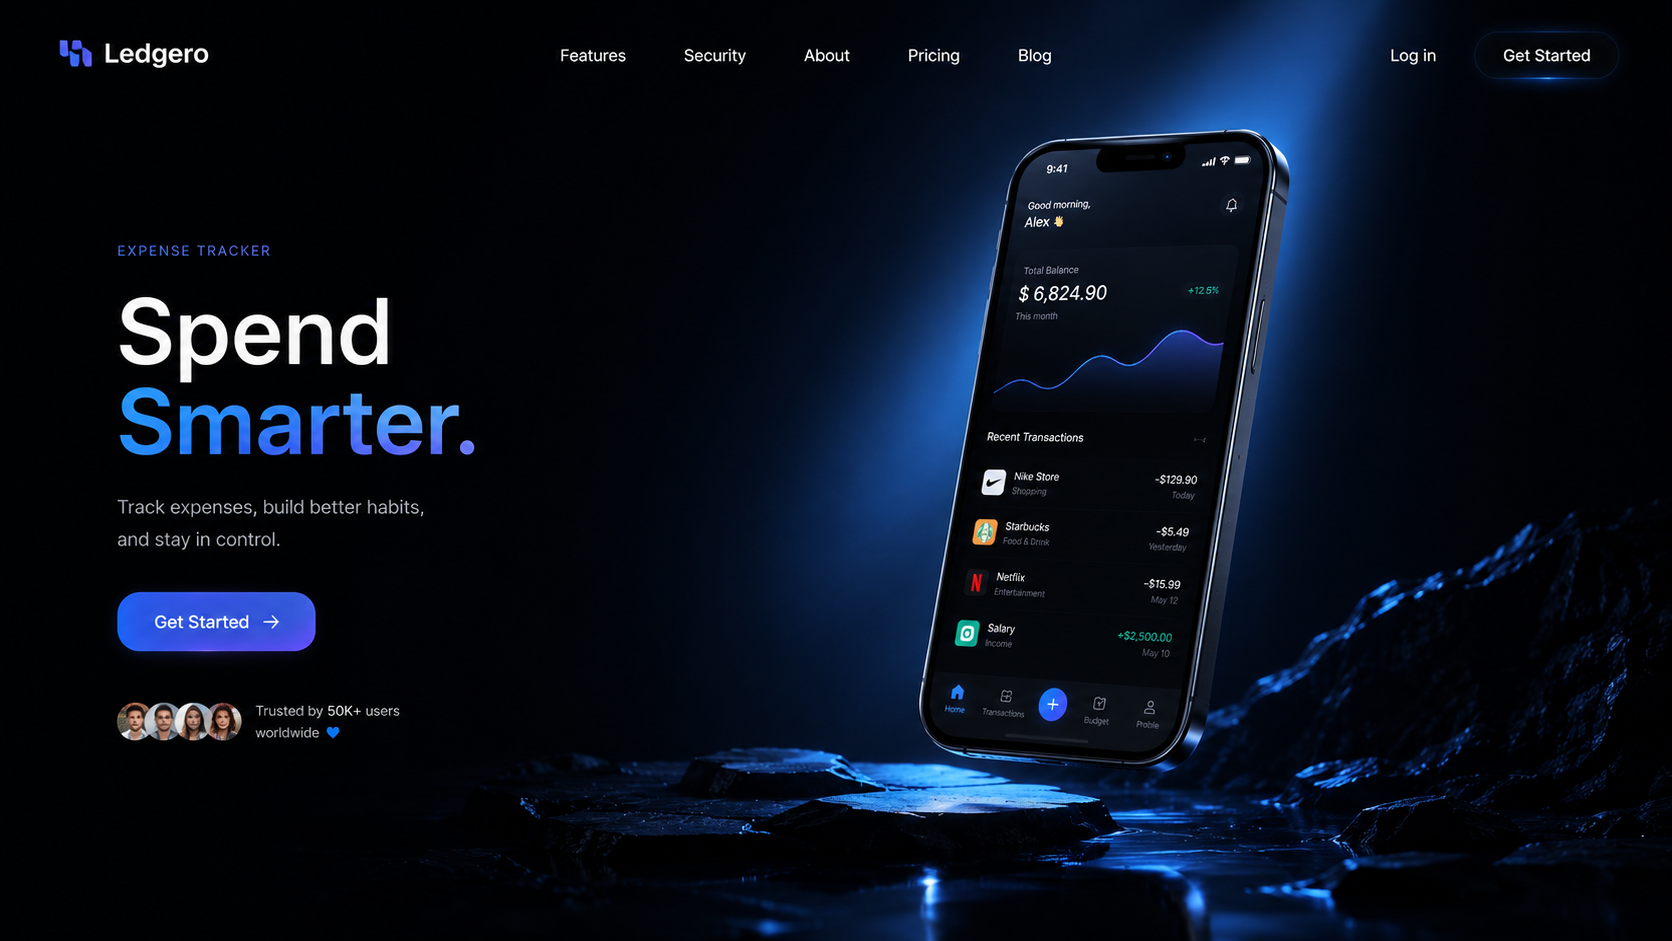
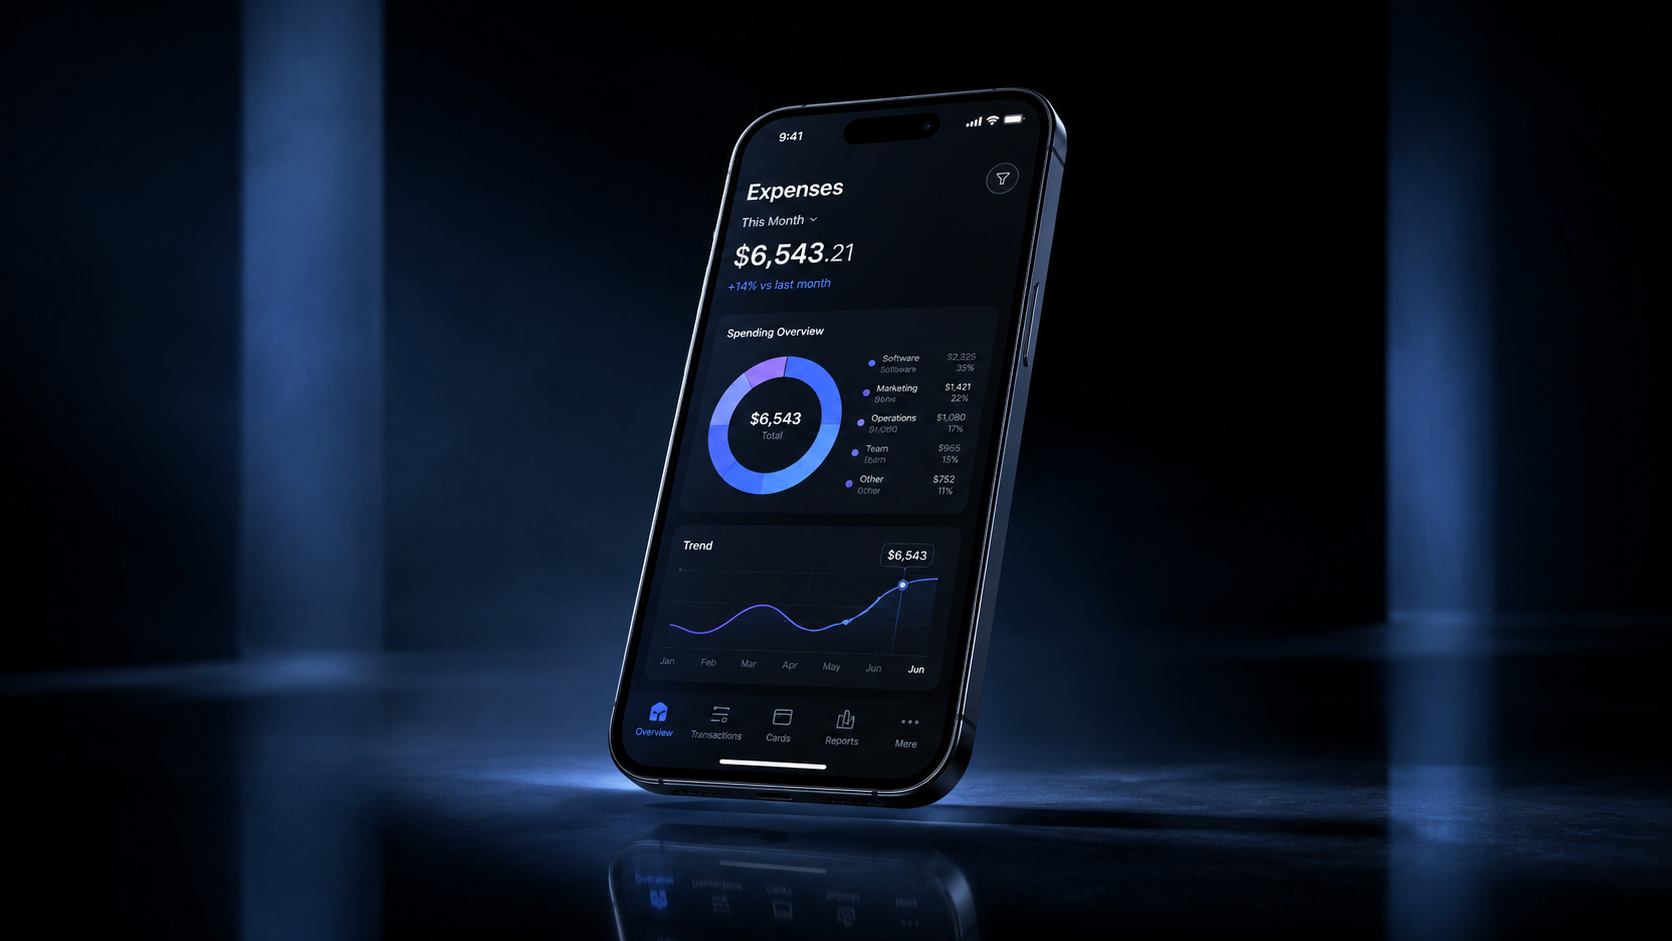
Updated portfolio content

diff --git a/src/components/About.tsx b/src/components/About.tsx
@@ -25,34 +25,35 @@ export default function About() {
               About Me
             </span>
             <h2 className="text-5xl md:text-7xl font-bold text-white mb-8 tracking-tight leading-tight">
-              Designing <br />
+              Building <br />
               <span className="text-transparent bg-clip-text bg-linear-to-r from-blue-400 to-purple-400">
-                Robust Backends
+                Scalable Backend Systems
               </span>
             </h2>
             <p className="text-gray-400 text-lg leading-relaxed mb-8">
-              A results-driven engineer specializing in building high-performance APIs, automated data pipelines, and clean, modular architectures that power seamless client experiences.
+              Building scalable APIs, automation systems, and backend architectures that power reliable digital experiences.
             </p>
             
             {/* Quick Metrics */}
             <div className="grid grid-cols-2 gap-6 border-t border-white/10 pt-8">
-              <div>
-                <span className="block text-4xl font-bold text-white font-mono mb-1">
-                  100%
-                </span>
-                <span className="text-xs text-gray-500 uppercase tracking-wider">
-                  Clean & OOP Code
-                </span>
-              </div>
-              <div>
-                <span className="block text-4xl font-bold text-white font-mono mb-1">
-                  40%
-                </span>
-                <span className="text-xs text-gray-500 uppercase tracking-wider">
-                  Security Optimized
-                </span>
-              </div>
-            </div>
+  <div>
+    <span className="block text-4xl font-bold text-white font-mono mb-1">
+      1+
+    </span>
+    <span className="text-xs text-gray-500 uppercase tracking-wider">
+      Years Experience
+    </span>
+  </div>
+
+  <div>
+    <span className="block text-4xl font-bold text-white font-mono mb-1">
+      Python
+    </span>
+    <span className="text-xs text-gray-500 uppercase tracking-wider">
+      Backend Engineer
+    </span>
+  </div>
+</div>
           </motion.div>
 
           {/* Profile Card / Description */}
@@ -67,20 +68,54 @@ export default function About() {
             <div className="absolute top-0 right-0 w-[300px] h-[300px] bg-blue-500/10 rounded-full blur-[80px] pointer-events-none group-hover:bg-blue-500/15 transition-all" />
 
             <div className="relative z-10">
-              <h3 className="text-2xl font-bold text-white mb-6">
-                Professional Profile
-              </h3>
-              <p className="text-gray-300 leading-relaxed mb-6 text-base md:text-lg">
-                I am a Python Software Engineer with professional experience developing web applications, automation solutions, and scalable backend systems using Python, FastAPI, JavaScript, and MySQL.
-              </p>
-              <p className="text-gray-300 leading-relaxed mb-6 text-base md:text-lg">
-                Skilled in designing REST APIs, implementing OOP-based architectures, optimizing application performance, and writing clean, maintainable code.
-              </p>
-              <p className="text-gray-300 leading-relaxed text-base md:text-lg">
-                I am highly experienced in debugging, API integration, Git-based workflows, and Agile development, with a proven ability to deliver reliable software solutions in collaborative environments.
-              </p>
-            </div>
-          </motion.div>
+  <h3 className="text-2xl font-bold text-white mb-6">
+    Professional Profile
+  </h3>
+
+  <p className="text-gray-300 leading-relaxed text-base md:text-lg">
+    Python Software Engineer with experience building scalable REST APIs, automation solutions, and backend systems. Skilled in FastAPI, PostgreSQL, Docker, and modern web technologies, with a focus on performance, maintainability, and clean architecture.
+  </p>
+
+  <div className="grid grid-cols-2 gap-6 mt-10 pt-8 border-t border-white/10">
+    <div>
+      <span className="block text-4xl font-bold text-white font-mono mb-1">
+        1+
+      </span>
+      <span className="text-xs text-gray-500 uppercase tracking-wider">
+        Years Experience
+      </span>
+    </div>
+
+    <div>
+      <span className="block text-4xl font-bold text-white font-mono mb-1">
+        FastAPI
+      </span>
+      <span className="text-xs text-gray-500 uppercase tracking-wider">
+        REST APIs
+      </span>
+    </div>
+
+    <div>
+      <span className="block text-4xl font-bold text-white font-mono mb-1">
+        REST APIs Development
+
+
+      </span>
+      <span className="text-xs text-gray-500 uppercase tracking-wider">
+        Backend Development
+      </span>
+    </div>
+
+    <div>
+      <span className="block text-4xl font-bold text-white font-mono mb-1">
+        PostgreSQL
+      </span>
+      <span className="text-xs text-gray-500 uppercase tracking-wider">
+        Database Design
+      </span>
+    </div>
+  </div>
+</div>          </motion.div>
         </div>
       </div>
     </section>

diff --git a/src/components/Skills.tsx b/src/components/Skills.tsx
@@ -3,10 +3,44 @@
 import { motion } from "framer-motion";
 
 const skills = [
-  { category: "Languages", items: ["Python", "JavaScript", "Java", "C"] },
-  { category: "Backend", items: ["FastAPI", "Flask", "Spring Boot", "REST APIs", "JWT Auth", "API Integration"] },
-  { category: "DB & Tools", items: ["MySQL", "Git/GitHub", "Docker", "Postman", "CI/CD", "Render", "Vercel"] },
-  { category: "Concepts", items: ["OOP", "Clean Code", "Agile", "API Docs", "Code Reviews", "Testing"] },
+  {
+    category: "Languages",
+    items: ["Python", "Java", "JavaScript", "TypeScript"]
+  },
+  {
+    category: "Backend",
+    items: [
+      "FastAPI",
+      "Flask",
+      "REST APIs",
+      "JWT Auth",
+      "SQLAlchemy",
+      "PostgreSQL",
+      "MySQL"
+    ]
+  },
+  {
+    category: "Frontend",
+    items: [
+      "React",
+      "Next.js",
+      "Tailwind CSS",
+      "Framer Motion"
+    ]
+  },
+  {
+    category: "Tools & Engineering",
+    items: [
+      "Git/GitHub",
+      "Docker",
+      "Postman",
+      "Vercel",
+      "Render",
+      "OOP",
+      "Clean Architecture",
+      "Agile"
+    ]
+  }
 ];
 
 export default function Skills() {

diff --git a/src/components/LogoSection.tsx b/src/components/LogoSection.tsx
@@ -1,0 +1,37 @@
+"use client";
+
+import "./LogoLoop.css";
+import LogoLoop from "./LogoLoop";
+import {
+  SiPython,
+  SiFastapi,
+  SiReact,
+  SiNextdotjs,
+  SiPostgresql,
+  SiDocker,
+  SiGithub,
+  SiMysql,
+} from "react-icons/si";
+
+const logos = [
+  { node: <SiPython />, title: "Python" },
+  { node: <SiFastapi />, title: "FastAPI" },
+  { node: <SiReact />, title: "React" },
+  { node: <SiNextdotjs />, title: "Next.js" },
+  { node: <SiPostgresql />, title: "PostgreSQL" },
+  { node: <SiMysql />, title: "MySQL" },
+  { node: <SiDocker />, title: "Docker" },
+  { node: <SiGithub />, title: "GitHub" },
+];
+
+export default function LogoSection() {
+  return (
+    <section className="py-12">
+      <h2 className="text-center text-2xl font-bold mb-8">
+        Technologies I Work With
+      </h2>
+
+      <LogoLoop logos={logos} />
+    </section>
+  );
+}

diff --git a/src/components/ScrollStack.tsx b/src/components/ScrollStack.tsx
@@ -1,0 +1,37 @@
+"use client";
+
+import React from "react";
+
+interface ScrollStackProps {
+  children: React.ReactNode;
+  className?: string;
+}
+
+interface ScrollStackItemProps {
+  children: React.ReactNode;
+  itemClassName?: string;
+}
+
+export function ScrollStackItem({
+  children,
+  itemClassName = "",
+}: ScrollStackItemProps) {
+  return (
+    <div
+      className={`sticky top-24 rounded-[40px] overflow-hidden ${itemClassName}`}
+    >
+      {children}
+    </div>
+  );
+}
+
+export default function ScrollStack({
+  children,
+  className = "",
+}: ScrollStackProps) {
+  return (
+    <div className={`space-y-10 ${className}`}>
+      {children}
+    </div>
+  );
+}

diff --git a/src/components/LogoLoop.css b/src/components/LogoLoop.css
@@ -1,0 +1,33 @@
+.logo-container {
+  width: 100%;
+  overflow: hidden;
+  position: relative;
+}
+
+.logo-track {
+  display: flex;
+  width: max-content;
+  animation: scroll 20s linear infinite;
+}
+
+.logo-item {
+  font-size: 3rem;
+  margin: 0 40px;
+  display: flex;
+  align-items: center;
+  justify-content: center;
+}
+
+.logo-item:hover {
+  transform: scale(1.2);
+  transition: 0.3s;
+}
+
+@keyframes scroll {
+  from {
+    transform: translateX(0);
+  }
+  to {
+    transform: translateX(-50%);
+  }
+}

diff --git a/src/components/Projects.tsx b/src/components/Projects.tsx
@@ -188,20 +188,20 @@ export default function Projects() {
                         whileHover={{ scale: 1.015 }}
                     >
                         {/* Media Background - Always 'mediaUrl' for Grid */}
-                        <img 
-                            src={project.mediaUrl}
-                            alt={project.title}
-                            className="absolute inset-0 w-full h-full object-cover opacity-60 group-hover:opacity-80 transition-all duration-700 group-hover:scale-110"
-                        />
+                        <img
+  src={project.mediaUrl}
+  alt={project.title}
+  className="absolute inset-0 w-full h-full object-cover opacity-35 group-hover:opacity-50 transition-all duration-700 group-hover:scale-105"
+/>
 
-                        {/* Gradient Overlay */}
-                        <div className={`absolute inset-0 bg-linear-to-br ${project.color} ${project.hoverColor} transition-all duration-500 opacity-60 group-hover:opacity-80 mix-blend-overlay`} />
-                        
-                        {/* Darkener */}
-                        <div className="absolute inset-0 bg-black/40 group-hover:bg-black/20 transition-colors duration-500" />
+<div className={`absolute inset-0 bg-linear-to-br ${project.color} ${project.hoverColor} transition-all duration-500 opacity-40 group-hover:opacity-60 mix-blend-overlay`} />
+
+<div className="absolute inset-0 bg-black/65 transition-colors duration-500" />
+
+<div className="absolute bottom-0 left-0 right-0 h-[65%] bg-gradient-to-t from-black via-black/90 to-transparent z-[1]" />
 
 
-                        <div className="absolute inset-0 p-8 flex flex-col justify-between z-10">
+                        <div className="absolute inset-0 p-8 flex flex-col justify-between z-20">
                             <div className="flex justify-between items-start">
                                  <span className="inline-block px-3 py-1 rounded-full bg-black/40 border border-white/10 text-xs font-mono text-blue-300 backdrop-blur-md">
                                     {project.category}
@@ -361,15 +361,7 @@ export default function Projects() {
                                                 <svg className="w-5 h-5" fill="currentColor" viewBox="0 0 24 24"><path d="M12 0c-6.626 0-12 5.373-12 12 0 5.302 3.438 9.8 8.207 11.387.599.111.793-.261.793-.577v-2.234c-3.338.726-4.033-1.416-4.033-1.416-.546-1.387-1.333-1.756-1.333-1.756-1.089-.745.083-.729.083-.729 1.205.084 1.839 1.237 1.839 1.237 1.07 1.834 2.807 1.304 3.492.997.107-.775.418-1.305.762-1.604-2.665-.305-5.467-1.334-5.467-5.931 0-1.311.469-2.381 1.236-3.221-.124-.303-.535-1.524.117-3.176 0 0 1.008-.322 3.301 1.23.957-.266 1.983-.399 3.003-.404 1.02.005 2.047.138 3.006.404 2.291-1.552 3.297-1.23 3.297-1.23.653 1.653.242 2.874.118 3.176.77.84 1.235 1.911 1.235 3.221 0 4.609-2.807 5.624-5.479 5.921.43.372.823 1.102.823 2.222v3.293c0 .319.192.694.801.576 4.765-1.589 8.199-6.086 8.199-11.386 0-6.627-5.373-12-12-12z"/></svg>
                                                 View Code
                                             </a>
-                                            <a 
-                                                href={selectedProject.demo} 
-                                                target="_blank" 
-                                                rel="noopener noreferrer" 
-                                                className="flex-1 py-4 rounded-xl bg-white/5 text-white font-bold text-center hover:bg-white/10 transition-colors border border-white/10 flex items-center justify-center gap-2"
-                                            >
-                                                Live Demo
-                                                <svg className="w-4 h-4" fill="none" viewBox="0 0 24 24" stroke="currentColor"><path strokeLinecap="round" strokeLinejoin="round" strokeWidth={2} d="M10 6H6a2 2 0 00-2 2v10a2 2 0 002 2h10a2 2 0 002-2v-4M14 4h6m0 0v6m0-6L10 14" /></svg>
-                                            </a>
+                                           
                                         </div>
                                     </motion.div>
                                 </div>

diff --git a/src/components/LogoLoop.tsx b/src/components/LogoLoop.tsx
@@ -1,0 +1,28 @@
+"use client";
+
+import React from "react";
+
+interface LogoItem {
+  node: React.ReactNode;
+  title: string;
+}
+
+interface LogoLoopProps {
+  logos: LogoItem[];
+}
+
+export default function LogoLoop({ logos }: LogoLoopProps) {
+  const duplicated = [...logos, ...logos];
+
+  return (
+    <div className="logo-container">
+      <div className="logo-track">
+        {duplicated.map((logo, index) => (
+          <div key={index} className="logo-item" title={logo.title}>
+            {logo.node}
+          </div>
+        ))}
+      </div>
+    </div>
+  );
+}

diff --git a/src/app/page.tsx b/src/app/page.tsx
@@ -1,4 +1,5 @@
 import Hero from "@/components/Hero";
+import LogoSection from "@/components/LogoSection";
 import About from "@/components/About";
 import Skills from "@/components/Skills";
 import Timeline from "@/components/Timeline";
@@ -10,7 +11,9 @@ import Contact from "@/components/Contact";
 export default function Home() {
   return (
     <main className="bg-[#121212] min-h-screen text-white">
+      
       <Hero />
+      <LogoSection />
       <About />
       <Skills />
       <Timeline />